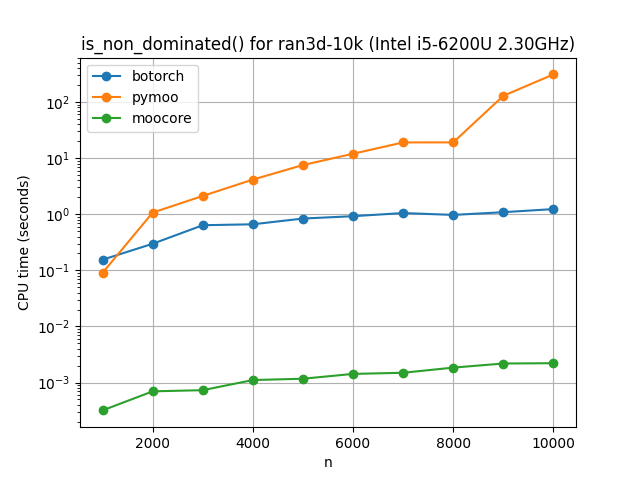
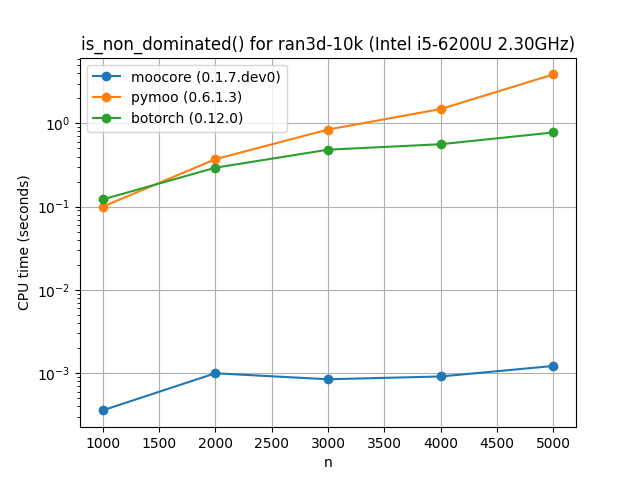
python/benchmarks: Show package versions in plots. Rerun ndom benchmark.

diff --git a/python/benchmarks/bench.py b/python/benchmarks/bench.py
@@ -33,6 +33,24 @@ def read_datasets_and_filter_dominated(filename):
     return x
 
 
+def get_package_version(package):
+    match package:
+        case "moocore":
+            from moocore import __version__ as version
+        case "botorch":
+            from botorch import __version__ as version
+        case "pymoo":
+            from pymoo import __version__ as version
+        case "jMetalPy":
+            from jmetal import __version__ as version
+        case "DEAP_er":
+            version = "DEAP-er"
+        case _:
+            raise ValueError(f"unknown package {package}")
+
+    return version
+
+
 class Bench:
     # FIXME: How to get this info automatically?
     cpu = "Intel i5-6200U 2.30GHz"
@@ -42,6 +60,10 @@ class Bench:
         self.n = n
         self.bench = bench
         self.times = {k: [] for k in bench.keys()}
+        self.versions = {
+            what: f"{what} ({get_package_version(what)})"
+            for what in bench.keys()
+        }
 
     def keys(self):
         return self.bench.keys()
@@ -57,7 +79,11 @@ class Bench:
         for what in self.keys():
             self.times[what] = np.asarray(self.times[what])
 
-        df = pd.DataFrame(dict(n=self.n, **self.times)).set_index("n")
+        df = (
+            pd.DataFrame(dict(n=self.n, **self.times))
+            .set_index("n")
+            .rename(columns=self.versions)
+        )
         df.plot(
             grid=True,
             ylabel="CPU time (seconds)",
@@ -73,7 +99,11 @@ class Bench:
                 continue
             reltimes["Rel_" + what] = self.times[what] / self.times["moocore"]
 
-        df = pd.DataFrame(dict(n=self.n, **reltimes)).set_index("n")
+        df = (
+            pd.DataFrame(dict(n=self.n, **reltimes))
+            .set_index("n")
+            .rename(columns=self.versions)
+        )
         df.plot(
             grid=True,
             ylabel="Time relative to moocore",

diff --git a/python/benchmarks/bench_ndom.py b/python/benchmarks/bench_ndom.py
@@ -23,7 +23,7 @@ from pymoo.util.nds.non_dominated_sorting import (
 # See https://github.com/multi-objective/testsuite/tree/main/data
 files = {
     "test2D-200k": dict(file="test2D-200k.inp.xz", ranges=(1000, 10000, 1000)),
-    "ran3d-10k": dict(file="ran.1000pts.3d.10", ranges=(1000, 10000, 1000)),
+    "ran3d-10k": dict(file="ran.1000pts.3d.10", ranges=(1000, 5000, 1000)),
 }
 
 
